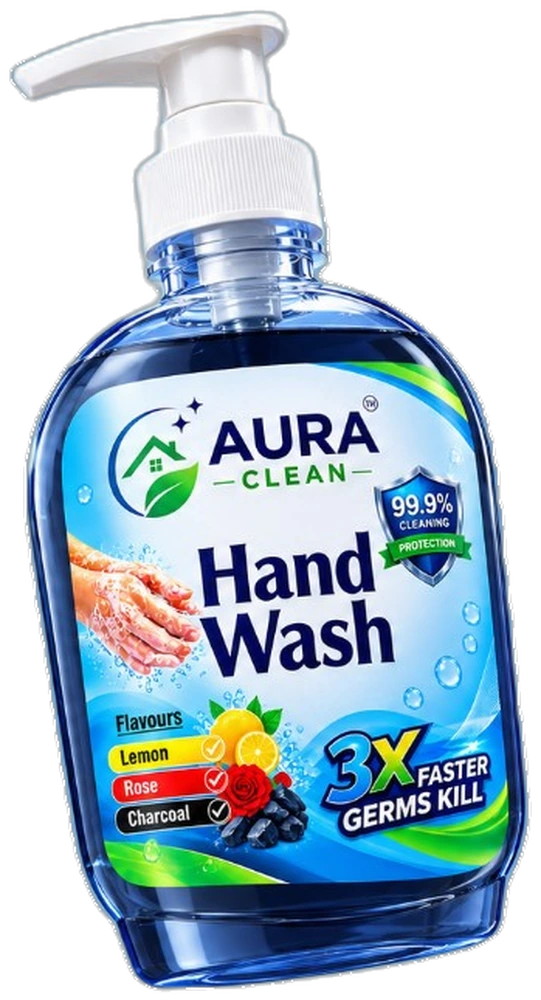
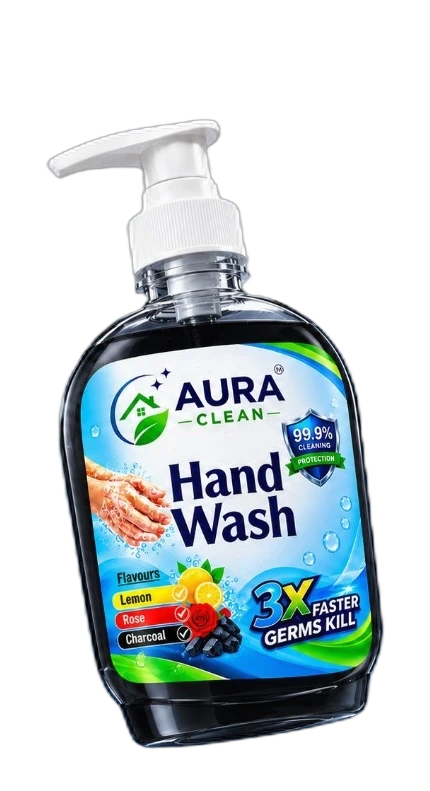
Update charcoal hand wash bottle asset across hero and product pages.

diff --git a/src/components/Hero.tsx b/src/components/Hero.tsx
@@ -24,7 +24,7 @@ type Floater = {
 const VARIANTS = [
   {
     id: "charcoal",
-    src: "/product-handwash-charcoal.webp?v=2",
+    src: "/product-handwash-charcoal.webp?v=11",
     name: "Charcoal",
     line: "Charcoal Hand Wash",
     word: "DETOX",
@@ -263,7 +263,7 @@ export function Hero() {
             ))}
           </div>
 
-          <div className="absolute inset-0 z-20 grid place-items-center px-[clamp(1rem,4vw,3rem)]">
+          <div className="absolute inset-0 z-20 grid place-items-center px-[clamp(1rem,4vw,3rem)] py-[clamp(3.5rem,8vh,6rem)]">
             <motion.img
               src={slide.src}
               alt={slide.line}
@@ -271,7 +271,7 @@ export function Hero() {
               height={960}
               className="hero-bottle"
               style={{ filter: "drop-shadow(0 32px 36px rgba(0,0,0,0.38))" }}
-              animate={reduce ? undefined : { y: [0, -16, 0] }}
+              animate={reduce ? undefined : { y: [0, -8, 0] }}
               transition={reduce ? undefined : { duration: 4.6, repeat: Infinity, ease: "easeInOut" }}
             />
           </div>

diff --git a/src/data/products.ts b/src/data/products.ts
@@ -45,7 +45,7 @@ export const PRODUCTS: Product[] = [
     id: "charcoal",
     name: "Hand Wash - Charcoal",
     category: "hand-wash",
-    src: "/product-handwash-charcoal.webp",
+    src: "/product-handwash-charcoal.webp?v=11",
     tone: "#222",
     blurb: "Activated charcoal for a purifying everyday cleanse.",
     spec: "99.9% Cleaning Protection",
@@ -118,7 +118,7 @@ export const COMBO_PRODUCT: Product = {
   id: "combo",
   name: "6-in-1 Home Care Combo",
   category: "hand-wash",
-  src: "/product-handwash-charcoal.webp",
+  src: "/product-handwash-charcoal.webp?v=11",
   tone: "#1c1408",
   blurb: "6 Essentials. 1 Family. Total Home Hygiene.",
   spec: "Laundry · Floor · Dish · Bath · Toilet · Hand Wash",

diff --git a/src/index.css b/src/index.css
@@ -77,16 +77,17 @@ button, a { font: inherit; }
   position: relative;
   display: block;
   width: auto !important;
-  height: min(62vh, 500px) !important;
-  max-width: min(92vw, 420px) !important;
+  height: min(56vh, 460px) !important;
+  max-width: min(88vw, 400px) !important;
   max-height: none !important;
   object-fit: contain;
+  object-position: center center;
 }
 
 @media (min-width: 1024px) {
   .hero-bottle {
-    height: min(84vh, 780px) !important;
-    max-width: min(70vw, 640px) !important;
+    height: min(72vh, 680px) !important;
+    max-width: min(58vw, 560px) !important;
   }
 }
 

diff --git a/src/pages/AboutPage.tsx b/src/pages/AboutPage.tsx
@@ -5,7 +5,7 @@ import { ArrowIcon } from "../components/icons";
 const SIGNATURES = [
   {
     id: "charcoal",
-    src: "/product-handwash-charcoal.webp",
+    src: "/product-handwash-charcoal.webp?v=11",
     word: "Detox",
     name: "Hand Wash - Charcoal",
     line: "Activated charcoal for a deep, unapologetic cleanse. 99.9% protection.",
